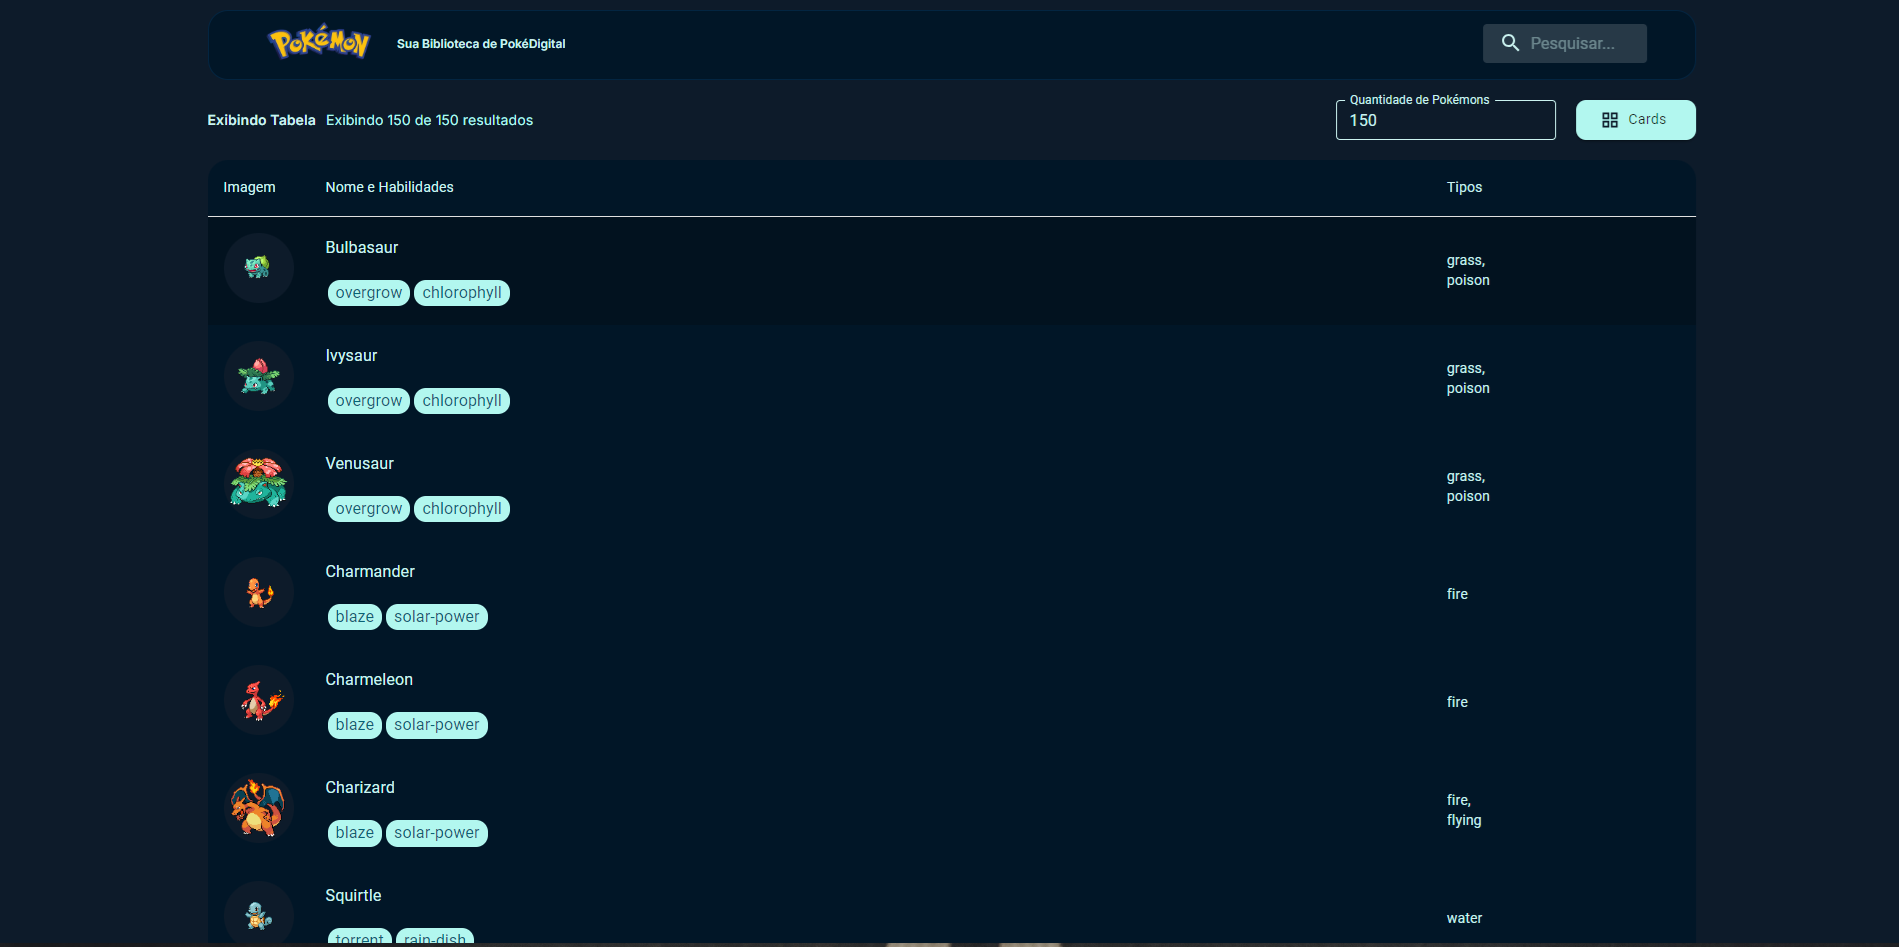
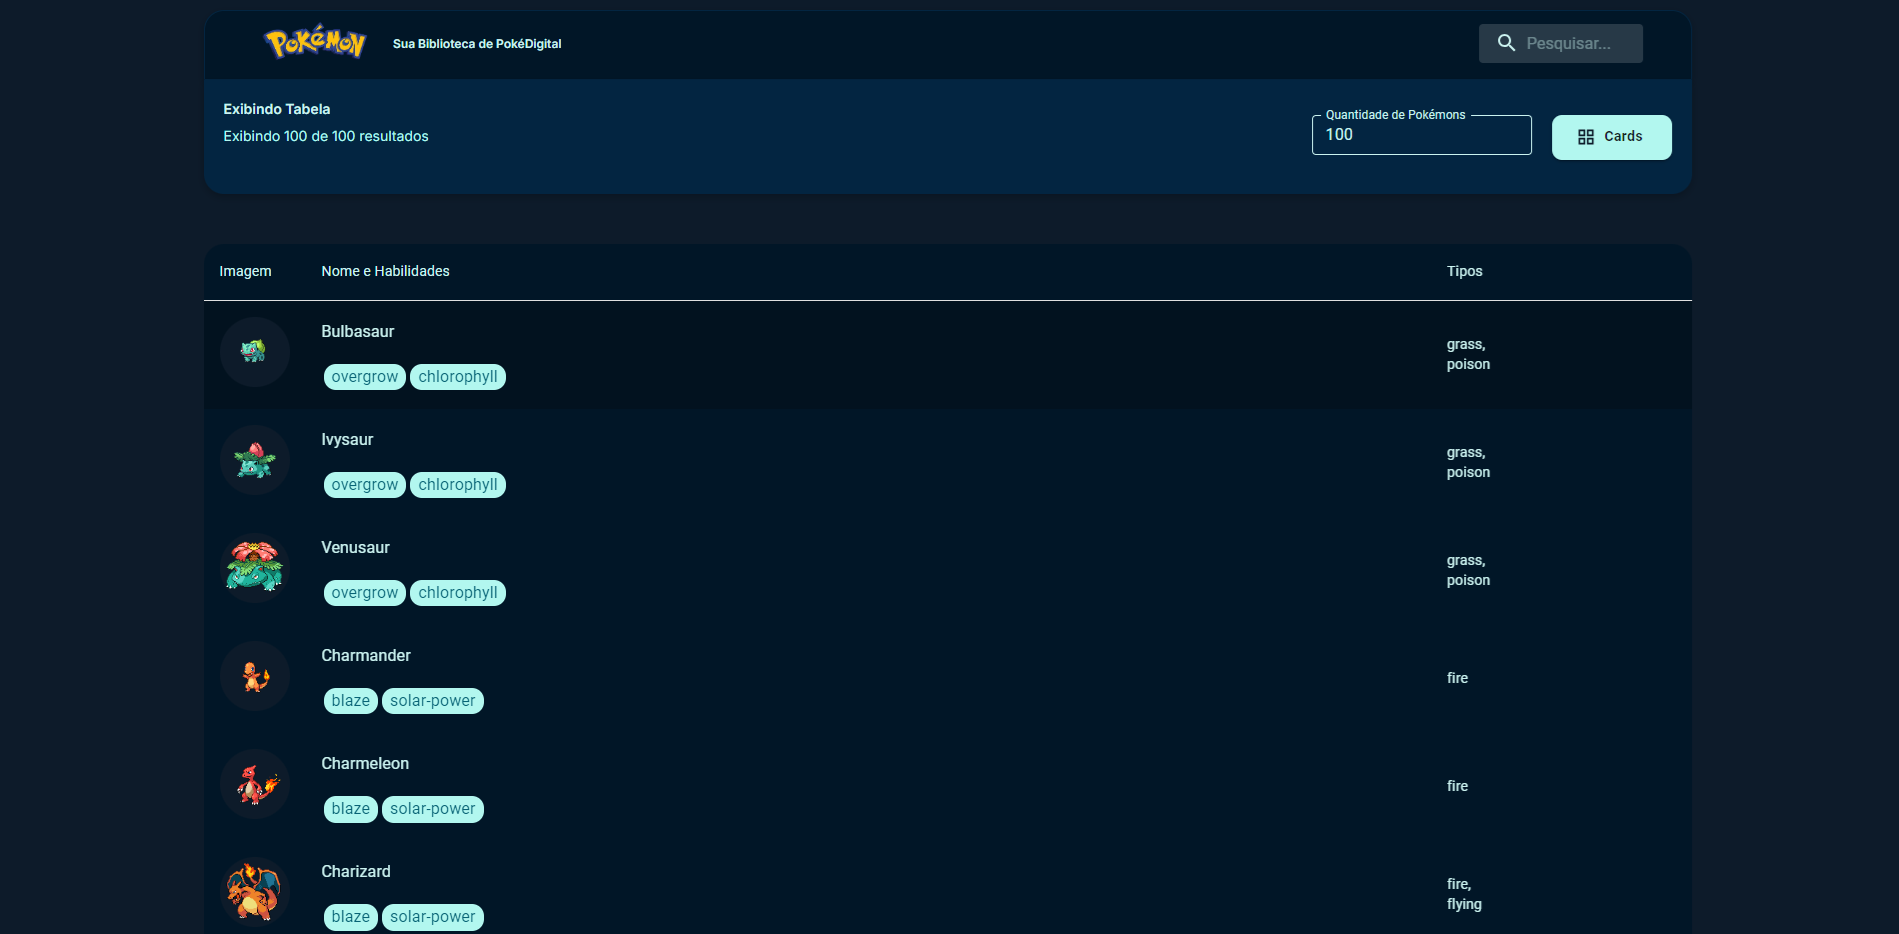
Ajustes de View Home e components ViewToggle

diff --git a/src/components/Buttons/ViewToggleButton.css b/src/components/Buttons/ViewToggleButton.css
@@ -1,27 +1,77 @@
 .content-view {
-    margin: 50px auto;
+    margin: 0px auto 50px;
     color: #cbf3f0 !important;
     display: flex;
+    flex-direction: column;
     justify-content: space-between;
-    align-items: center;
-    width: 100%;
+    align-items: flex-start;
+    position: relative;
+    background-color: #032541;
+    padding: 20px;
+    z-index: 0;
+    border-radius: 0 0 20px 20px;
+    box-shadow: rgba(0, 0, 0, 0.24) 0px 3px 8px !important;
+}
+
+.title-container {
+    display: flex;
+    flex-direction: column !important;
+    margin-bottom: 10px;
 }
 
 .tableorcard-title {
-    flex-grow: 1;
-    font-size: 16;
+    display: flex;
+    flex-direction: column;
+    justify-content: flex-start;
+    align-items: flex-start;
+    text-align: left !important;
+    font-size: 16px;
     font-weight: 600;
     font-family: 'Inter';
-    justify-content: space-between;
-    align-self: 'center';
-    text-align: 'left';
+    width: 100%;
 }
 
 .box-count {
-    flex-direction: column;
-    justify-content: center;
+    flex-direction: column !important;
     text-align: left;
     font-size: 14px;
+    flex-basis: 100%;
     font-weight: 500 !important;
     color: #b2f7ef !important;
+    margin: 10px 0 20px 0px !important;
+}
+
+@media (min-width: 600px) {
+    .action-container {
+        flex-direction: column;
+      }
+
+    .content-view {
+        flex-direction: row;
+        justify-content: space-between;
+        align-items: center;
+    }
+
+    .title-container {
+        display: flex;
+        flex-direction: column;
+        margin-bottom: 10px;
+    }
+
+    .tableorcard-title {
+        flex-direction: row;
+        width: auto;
+    }
+
+    .tableorcard-title {
+        margin-top: 0;
+        font-size: 14px;
+    }
+
+    .box-count {
+        flex-basis: auto;
+        margin: 10px 0 20px 0px !important;
+        font-size: 14px !important;
+    }
+
 }

diff --git a/src/components/Buttons/ViewToggleButton.jsx b/src/components/Buttons/ViewToggleButton.jsx
@@ -7,19 +7,23 @@ import './ViewToggleButton.css';
 const ViewToggleButton = ({ viewMode, onToggleView, count, totalCount, onCountChange }) => {
   return (
     <div className='content-view'>
-      <Typography variant="h6" className='tableorcard-title'>
-        {viewMode === 'cards' ? 'Exibindo Cards' : 'Exibindo Tabela'}
-        <Box className='box-count'>
-          {`Exibindo ${count} de ${totalCount} resultados`}
-        </Box>
-      </Typography>
+      <div className='title-container'>
+          <Typography variant="span" className='tableorcard-title'>
+            {viewMode === 'cards' ? 'Exibindo Cards' : 'Exibindo Tabela'}
+          </Typography>
+          <Box className='box-count'>
+            {`Exibindo ${count} de ${totalCount} resultados`}
+          </Box>
+      </div>
 
-      <CountInput count={count} onCountChange={onCountChange} />
+      <div className='action-container'>
+        <CountInput count={count} onCountChange={onCountChange} />
 
-      <ViewToggleButtonWithTooltip
-        viewMode={viewMode}
-        onToggleView={onToggleView}
-      />
+        <ViewToggleButtonWithTooltip
+          viewMode={viewMode}
+          onToggleView={onToggleView}
+        />
+      </div>
     </div>
   );
 };

diff --git a/src/components/NavBar/index.jsx b/src/components/NavBar/index.jsx
@@ -74,7 +74,7 @@ export default function SearchAppBar({ pokemonFilter }) {
                     overflowX: 'hidden',
                     backgroundColor: '#011627',
                     color: '#cbf3f0',
-                    borderRadius: '20px',
+                    borderRadius: '20px 20px 0 0',
                     marginTop: '12px',
                     border: '1.8px solid #032541',
                     height: 70,
